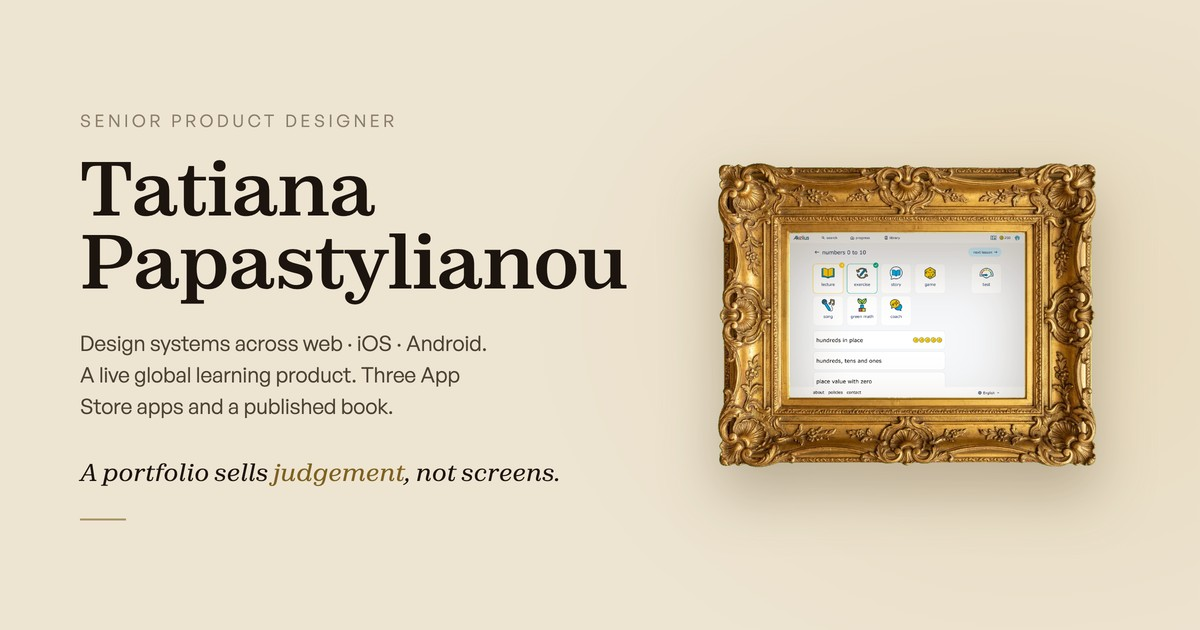
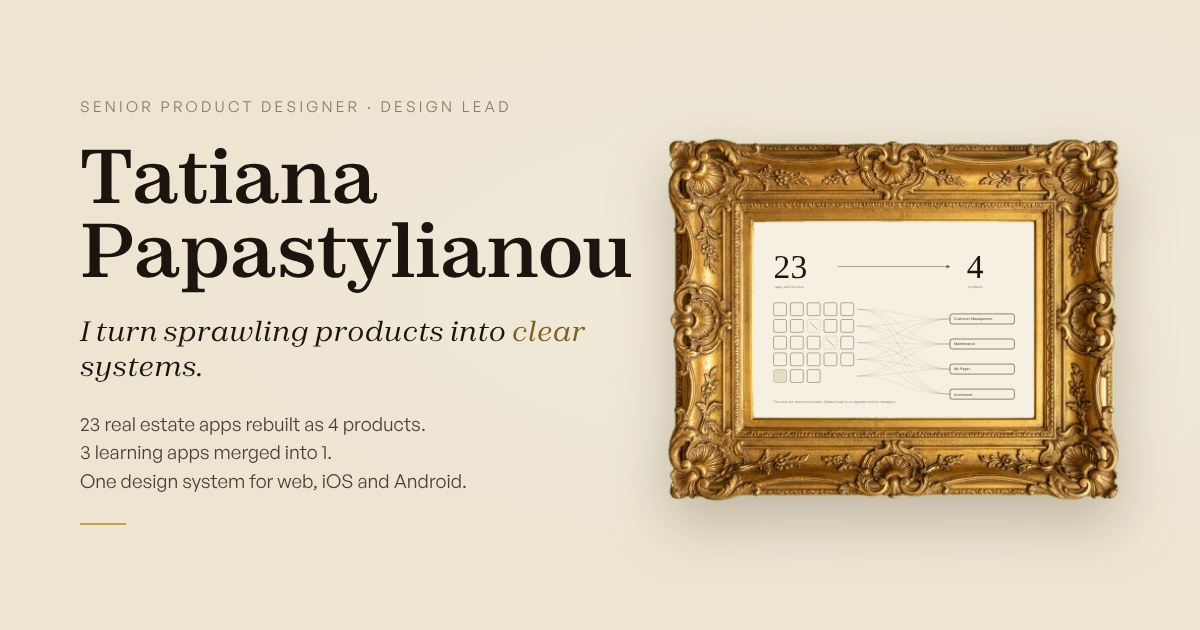
Case glance strips, section index, How I work, new social preview
- Every case: scannable glance strip (role, team, time, scope, platforms) replaces the role line
- Case pages: fixed section index on wide screens, highlights the section in view; clicks go through Lenis with pixel targets and settle after lazy images load
- Home: How I work, four habits each linked to the case that shows it
- New og-image with the positioning line and the 23 → 4 drawing
- Progress bar and About facts use ink, not gold (gold stays for frames and one accent word)

Claude-Session: https://claude.ai/code/session_01BB12qjeAEdgwWpk1oWrMyw

diff --git a/src/content.config.ts b/src/content.config.ts
@@ -64,6 +64,8 @@ const cases = defineCollection({
     title: z.string(),
     role: z.string(), // short plaque label, e.g. "Design Lead"
     roleFull: z.string(), // full role line for the snapshot hero
+    // scannable facts under the case hero: role, team, time, scale, platforms
+    glance: z.array(z.object({ k: z.string(), v: z.string() })).optional(),
     oneLiner: z.string(),
     tag: z.string().optional(), // "Category · year" for the work index, e.g. "Design System · 2023"
     change: z.string(), // the "[change]" half of the case title discipline

diff --git a/src/content/cases/design-system.md b/src/content/cases/design-system.md
@@ -8,6 +8,17 @@ tag: "Design System · 2025–now"
 change: "A design system that existed on paper"
 impact: "became infrastructure: one language for design and code"
 order: 2
+glance:
+  - k: "Role"
+    v: "Owner of the design system"
+  - k: "Worked with"
+    v: "Web, Android and iOS engineering"
+  - k: "Time"
+    v: "May 2025 – now"
+  - k: "Scope"
+    v: "24 core component families · 4 libraries"
+  - k: "Platforms"
+    v: "Web · Android · iOS"
 next:
   slug: "math-app"
   title: "Akelius Math: three visions, one minimal product"

diff --git a/src/content/cases/real-estate.md b/src/content/cases/real-estate.md
@@ -8,6 +8,17 @@ tag: "Information architecture · 2023–2025"
 change: "23 apps, one tenancy split across them"
 impact: "4 products along one tenancy"
 order: 1
+glance:
+  - k: "Role"
+    v: "Design Lead and Product Owner"
+  - k: "Team"
+    v: "3 designers · 4 dev teams"
+  - k: "Time"
+    v: "2023–2025, in stages"
+  - k: "Scale"
+    v: "~200 staff daily · 7 countries"
+  - k: "Platforms"
+    v: "Web, mobile friendly"
 next:
   slug: "design-system"
   title: "Building the Akelius education design system"

diff --git a/src/content/cases/math-app.md b/src/content/cases/math-app.md
@@ -9,6 +9,17 @@ change: "Three conflicting directions"
 impact: "one minimal product, now live in Akelius Education"
 liveUrl: "https://akelius.education/"
 order: 3
+glance:
+  - k: "Role"
+    v: "Design lead on the project"
+  - k: "Stakeholders"
+    v: "Founder · board · math editors"
+  - k: "Time"
+    v: "Nov 2024 – Jan 2026"
+  - k: "Content"
+    v: "Akelius Math Learning Lab"
+  - k: "Platforms"
+    v: "Web · Android · iOS"
 next:
   slug: "unified-app"
   title: "Three learning apps, one product"

diff --git a/src/content/cases/ai-skills.md b/src/content/cases/ai-skills.md
@@ -8,6 +8,17 @@ tag: "AI workflows · 2026"
 change: "Rules in documents, an app drifting from its designs"
 impact: "7 AI skills, used by four groups"
 order: 5
+glance:
+  - k: "Role"
+    v: "Author and maintainer"
+  - k: "Users"
+    v: "Design · content · Android devs · CEO"
+  - k: "Time"
+    v: "2026, ongoing"
+  - k: "Scope"
+    v: "7 skills"
+  - k: "Tools"
+    v: "Claude skills · Figma · adb · Jira"
 next:
   slug: "real-estate"
   title: "From 23 real estate apps to 4 products"

diff --git a/src/content/cases/unified-app.md b/src/content/cases/unified-app.md
@@ -8,6 +8,17 @@ tag: "Product · live 2026"
 change: "Three apps and a Classroom teachers got lost in"
 impact: "one app on web, Android and iOS"
 order: 4
+glance:
+  - k: "Role"
+    v: "Senior Product Designer"
+  - k: "Review"
+    v: "Head of Design"
+  - k: "Live"
+    v: "Since October 2026"
+  - k: "Scope"
+    v: "3 apps → 1 · Classroom on web"
+  - k: "Platforms"
+    v: "Web · Android · iOS"
 next:
   slug: "ai-skills"
   title: "Turning design rules into AI skills the team uses"
